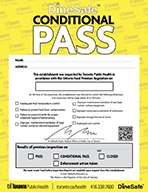
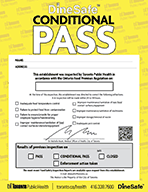
chore: compress DineSafe sign images, add CSS/dashboard colour sync test and colour ref doc

diff --git a/src/dsv-app/tests/test_dashboard.py b/src/dsv-app/tests/test_dashboard.py
@@ -1,3 +1,8 @@
+import json
+import re
+from pathlib import Path
+
+
 def test_dashboard_returns_200(client):
     resp = client.get("/dashboard")
     assert resp.status_code == 200
@@ -14,3 +19,53 @@ def test_dashboard_has_home_link(client):
     resp = client.get("/dashboard")
     assert b'href="/"' in resp.data
     assert b'href="/info"' in resp.data
+
+
+# The Grafana dashboard can't read CSS variables, so its status colours are
+# hard-coded copies of the --dinesafe-* tokens in style.css. Keep them in sync.
+_APP_DIR = Path(__file__).resolve().parent.parent
+_STYLE_CSS = _APP_DIR / "static" / "style.css"
+_DASHBOARD_JSON = _APP_DIR.parent / "dsv-analytics" / "provisioning" / "dashboards" / "dinesafe.json"
+_STATUS_TOKENS = {"Pass": "green", "Conditional Pass": "yellow", "Closed": "red"}
+
+
+def _css_status_colours():
+    tokens = dict(re.findall(r"--dinesafe-(\w+):\s*(#[0-9A-Fa-f]{6})", _STYLE_CSS.read_text()))
+    return {status: tokens[name].upper() for status, name in _STATUS_TOKENS.items()}
+
+
+def _panel_status(title):
+    # Longest prefix first so "Conditional Pass ..." isn't matched as "Pass".
+    for status in sorted(_STATUS_TOKENS, key=len, reverse=True):
+        if title.startswith(status):
+            return status
+    return None
+
+
+def test_dashboard_status_colours_match_css():
+    expected = _css_status_colours()
+    panels = json.loads(_DASHBOARD_JSON.read_text())["panels"]
+    checked = 0
+    for panel in panels:
+        defaults = panel.get("fieldConfig", {}).get("defaults", {})
+        status = _panel_status(panel.get("title", ""))
+        if status and panel["type"] != "row":
+            colours = []
+            if defaults.get("color", {}).get("mode") == "fixed":
+                colours.append(defaults["color"]["fixedColor"])
+            if panel["type"] == "stat" and "thresholds" in defaults:
+                colours.append(defaults["thresholds"]["steps"][0]["color"])
+            assert colours, f"panel {panel['title']!r} has no status colour"
+            for colour in colours:
+                assert colour.upper() == expected[status], f"panel {panel['title']!r}"
+                checked += 1
+        for override in panel.get("fieldConfig", {}).get("overrides", []):
+            status = override["matcher"].get("options")
+            if status in expected:
+                for prop in override["properties"]:
+                    if prop["id"] == "color":
+                        assert prop["value"]["fixedColor"].upper() == expected[status], \
+                            f"panel {panel['title']!r} override {status!r}"
+                        checked += 1
+    # Guards against the walk silently matching nothing after a dashboard rework.
+    assert checked >= 20

diff --git a/docs/ref/2-colours.md b/docs/ref/2-colours.md
@@ -1,0 +1,31 @@
+# DineSafe colours
+
+DineSafeViz uses the colours from Toronto Public Health's official DineSafe
+notice signs. The hex values were sampled from the most common colour in each
+sign image in `src/dsv-app/static/imgs/`.
+
+## Colour values
+
+Each colour marks one inspection status and the infraction severity that
+leads to it.
+
+| Token               | Hex       | Inspection status | Infraction severity |
+| ------------------- | --------- | ----------------- | ------------------- |
+| `--dinesafe-green`  | `#00875F` | Pass              | Minor               |
+| `--dinesafe-yellow` | `#FBEF45` | Conditional Pass  | Significant         |
+| `--dinesafe-red`    | `#F04B45` | Closed            | Crucial             |
+
+## Where the colours are defined
+
+The colours live in two places, because the Grafana dashboard can't read CSS
+variables.
+
+- `src/dsv-app/static/style.css`: the `--dinesafe-*` tokens in `:root`.
+- `src/dsv-analytics/provisioning/dashboards/dinesafe.json`: hard-coded hex
+  values on the Pass, Conditional Pass, and Closed panels.
+
+<!-- prettier-ignore -->
+> [!IMPORTANT]
+> If you change a colour, you must update both files.
+> `test_dashboard_status_colours_match_css` in
+> `src/dsv-app/tests/test_dashboard.py` fails when they drift apart.
